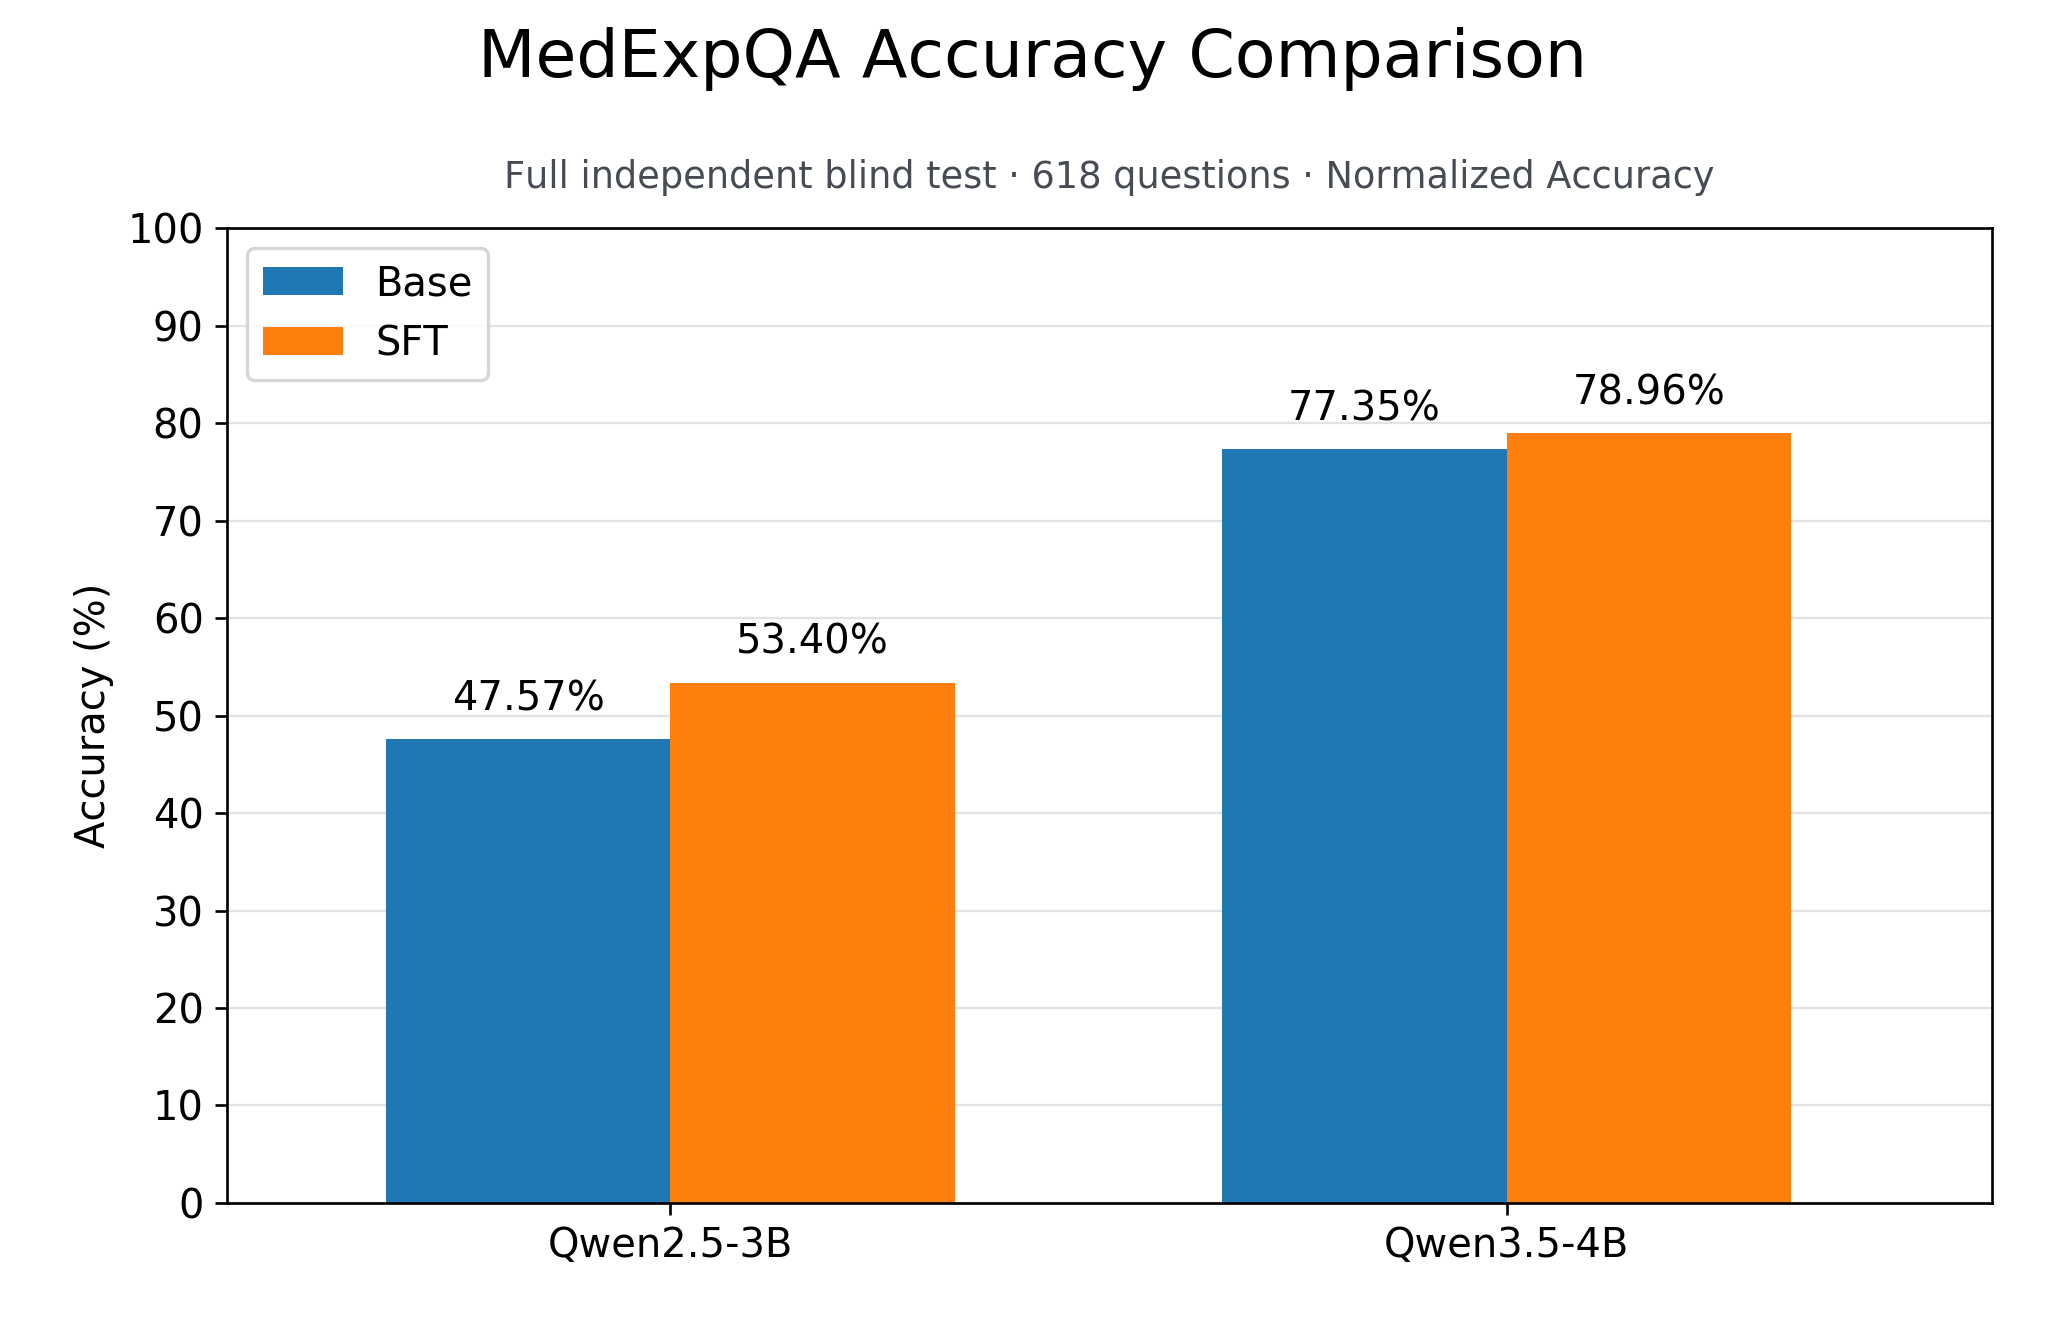
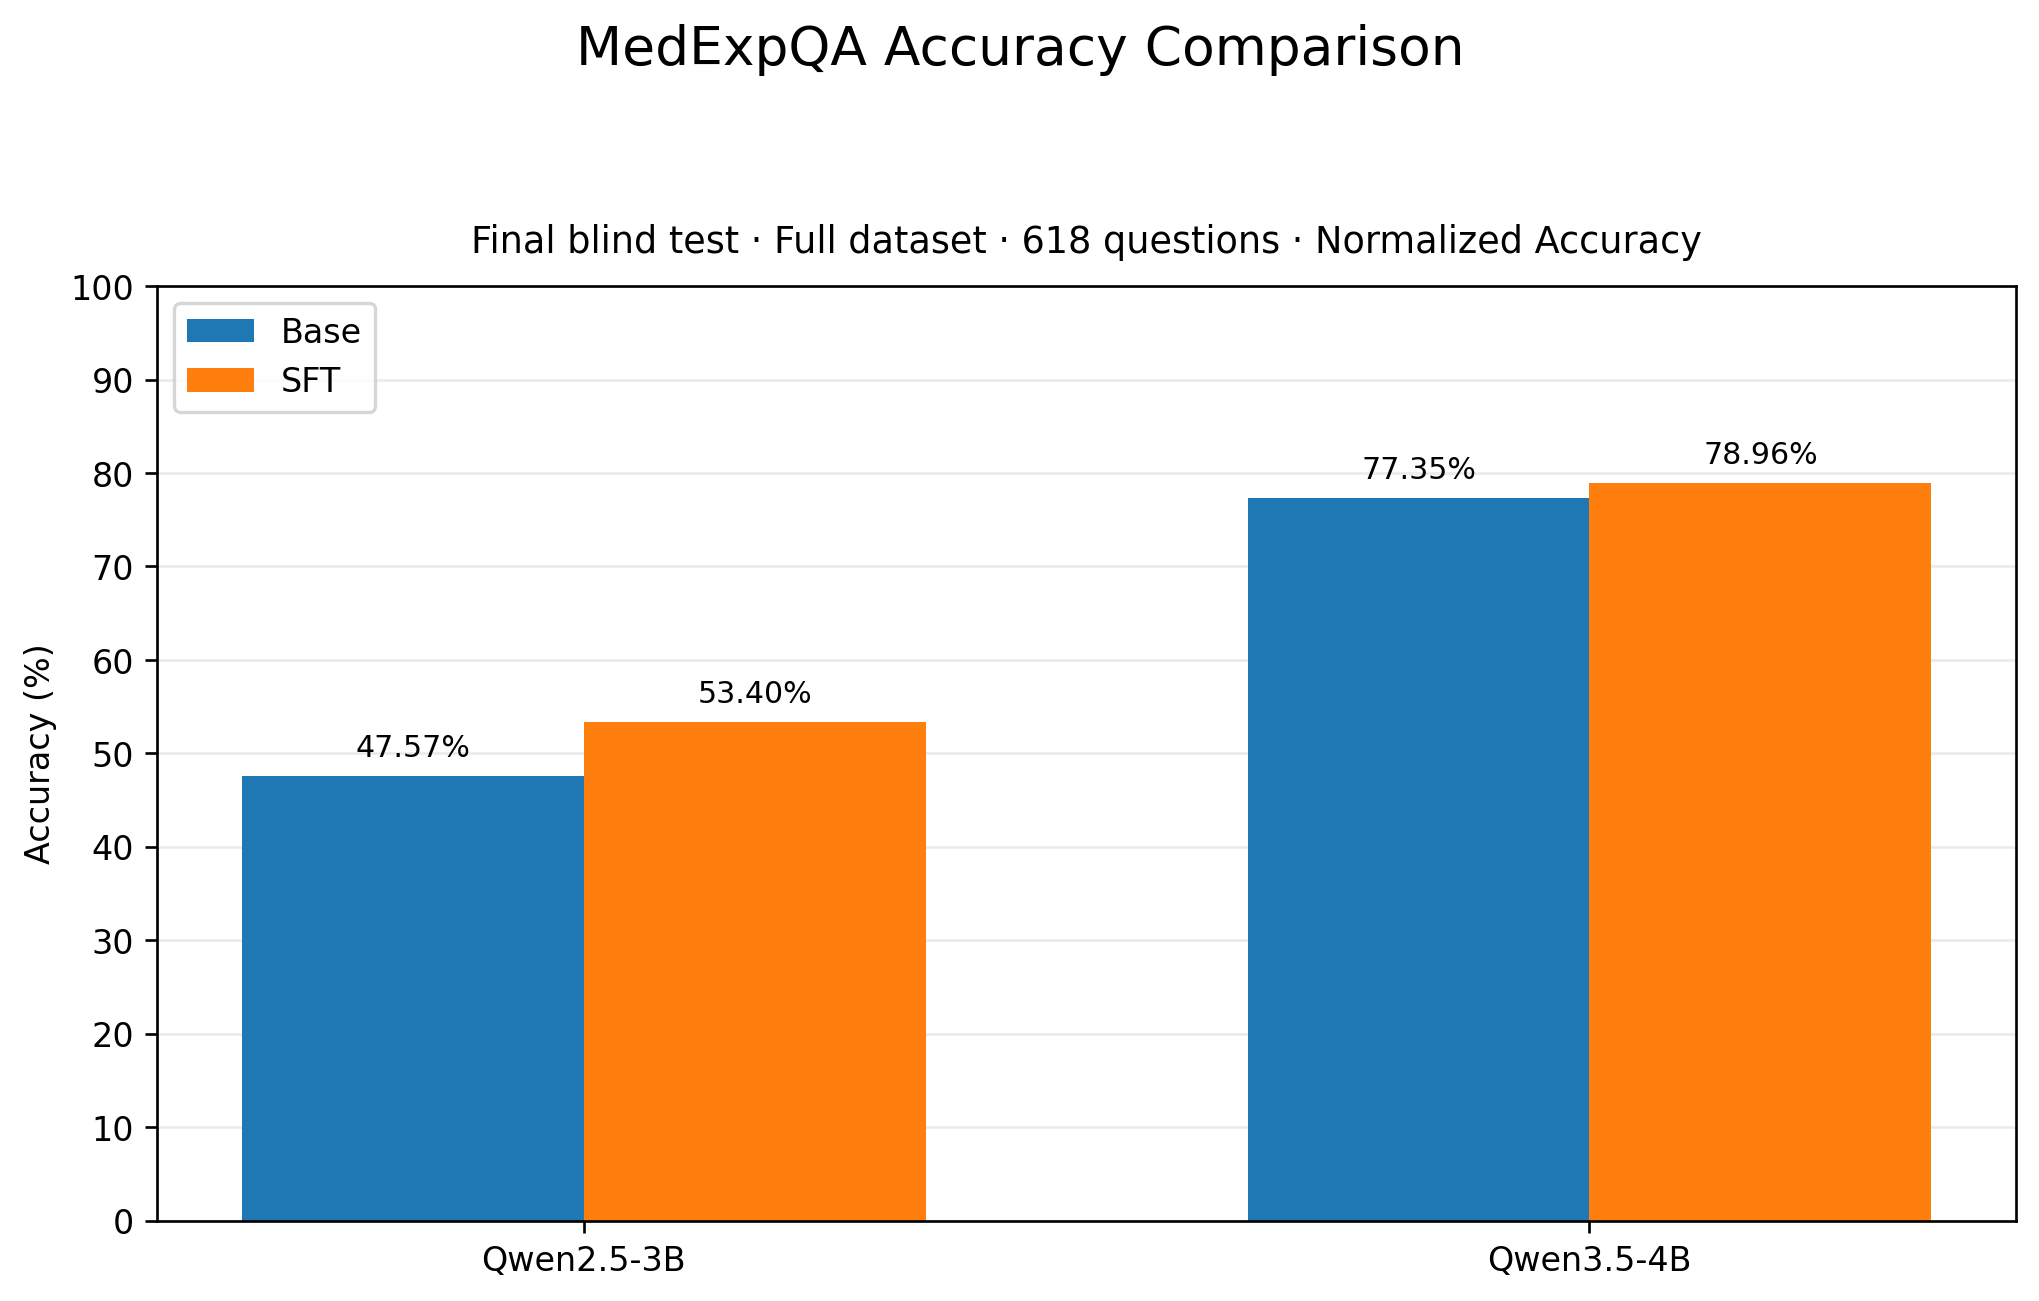
Clarify both final blind test datasets

diff --git a/src/medical_sft/evaluation/qwen25_instruct_baseline_matched_20261110.py b/src/medical_sft/evaluation/qwen25_instruct_baseline_matched_20261110.py
@@ -249,7 +249,7 @@ def main() -> None:
 
 **Prompt 与最终 SFT 训练对齐：**从锁定的官方 Validation 题目与选项中移除旧 Answer-only 尾部指令，替换为最终训练使用的 Answer + Explanation 指令；不追加单字母限制后缀。使用 Instruct tokenizer chat template、greedy generation、max_new_tokens={MAX_NEW_TOKENS}、use_cache=True，并同时保留严格解析与规范化解析结果。对应 SFT 评估必须复用同一 Prompt、生成参数和解析器。
 
-官方 Validation 已用于此前模型选择，因此本结果不是盲测。原 2026-11-05 追加后缀版本保留为历史探索结果，不覆盖、不替换。
+本报告属于使用 Answer + Explanation 的历史匹配 Prompt 对照。2026-11-05 的追加后缀评估同属历史探索。最终发布轮次的盲测协议与成绩见 `reports/results/final_accuracy_results_20261117.md`。
 """
     (OUT / "README.md").write_text(report, encoding="utf-8")
     write("status.json", {"status": "PASS", "phase": "complete", "completed": len(rows), "pid": os.getpid(), "model_released": True})

diff --git a/scripts/plot_accuracy_comparison.py b/scripts/plot_accuracy_comparison.py
@@ -21,13 +21,13 @@ MODEL_LABELS = {
 DATASETS = {
     "medmcqa": {
         "title": "MedMCQA Accuracy Comparison",
-        "subtitle": "Official Validation · 4,183 questions",
+        "subtitle": "Final blind test · Official Validation · 4,183 questions",
         "filename": "medmcqa_accuracy_comparison.png",
         "note": "",
     },
     "medexpqa": {
         "title": "MedExpQA Accuracy Comparison",
-        "subtitle": "Full independent blind test · 618 questions",
+        "subtitle": "Final blind test · Full dataset · 618 questions",
         "filename": "medexpqa_accuracy_comparison.png",
         "note": "",
     },

diff --git a/reports/results/final_accuracy_results_20261117.md b/reports/results/final_accuracy_results_20261117.md
@@ -1,17 +1,18 @@
 # 四模型准确率结果汇总（2026-11-17）
 
-本表汇总四个模型版本在 MedMCQA 和 MedExpQA 上的评估结果。README 和准确率对比图使用本表的 Normalized Accuracy。
+本表汇总四个模型版本在 MedMCQA 和 MedExpQA 上的最终盲测结果。README 和准确率对比图使用本表的 Normalized Accuracy。
 
 ## 1. 评估范围与统计口径
 
-- **MedMCQA**：官方 Validation，4,183 条。
-- **MedExpQA**：完整 618 条作为独立盲测集；上游 Train / Validation / Test 分别为 430 / 63 / 125 条，仅用于记录样本来源。618 条均未参与两个模型的 SFT 训练。
+- **MedMCQA 最终盲测集**为官方 Validation 的 4,183 条。
+- **MedExpQA 最终盲测集**为完整 618 条。上游 Train / Validation / Test 分别为 430 / 63 / 125 条，三个标签记录样本来源。
+- 最终发布轮次的模型和评估设置在盲测前确定。模型筛选使用从 MedMCQA 官方 Train 划出的 9,139 条内部验证样本，两套盲测数据均未用于该轮的模型筛选。
 - 主展示指标为 **Normalized Accuracy**，分母为全部样本数；无效答案按错误计入。
 - 结果表同时列出 Strict Accuracy、正确数和无效答案数。Qwen3.5-4B 两项 SFT 的 Normalized 正确数由表中准确率和样本总数换算。
 
 ## 2. 最终准确率
 
-### MedMCQA（4,183 条）
+### MedMCQA 官方 Validation（4,183 条最终盲测）
 
 | 模型                  | 类型   | Strict Accuracy | Normalized Accuracy | Strict 正确数 | Normalized 正确数 | 无效答案 |
 | ------------------- | ---- | --------------: | ------------------: | ---------: | -------------: | ---: |
@@ -20,7 +21,7 @@
 | Qwen3.5-4B          | Base |          62.13% |          **62.13%** |      2,599 |          2,599 |    1 |
 | Qwen3.5-4B          | SFT  |          64.02% |          **64.02%** |      2,678 |          2,678 |    0 |
 
-### MedExpQA（618 条独立盲测）
+### MedExpQA 全集（618 条最终盲测）
 
 | 模型                  | 类型   | Strict Accuracy | Normalized Accuracy | Normalized 正确数 | 无效答案 |
 | ------------------- | ---- | --------------: | ------------------: | -------------: | ---: |
@@ -53,7 +54,7 @@ Qwen2.5-3B Base 在 MedMCQA 上的 Normalized Accuracy 为 **47.98%**，即 4,18
 - 同一数据集的题目 Prompt 保持一致，各模型使用各自原生 Chat Template；
 - Normalized Accuracy 以全部样本为分母，无效答案计为错误。
 
-同一数据集的 Base / SFT 使用相同的题目 Prompt 和生成设置。MedMCQA 评估使用 Answer-only，SFT 训练使用 Answer + Explanation。MedMCQA 官方 Validation 曾用于早期模型筛选，MedExpQA 的 618 条用于独立盲测。
+同一盲测集的 Base / SFT 使用相同的题目 Prompt 和生成设置。MedMCQA 最终盲测使用 Answer-only，SFT 训练使用 Answer + Explanation。
 
 ## 6. 图表
 

diff --git a/data/README.md b/data/README.md
@@ -51,25 +51,27 @@ MedMCQA 清洗输入为 **173,683 条**，按官方 Train 的 **182,822 条**扣
 - 用途：内部验证、训练监控和模型选择。
 - 不参与梯度更新，也不属于最终测试集。
 
-## 四、两个独立测试集
+## 四、最终盲测集
 
-### 测试集一：MedMCQA 官方 Validation
+最终发布轮次在模型和评估设置确定后使用以下两套数据进行盲测。两套数据均未用于该轮模型筛选。
+
+### MedMCQA 官方 Validation
 
 - 数量：**4,183**。
 - 原始数据：`raw/medmcqa/validation.parquet`。
 - 评估副本：`evaluation/medmcqa_official_validation/validation.jsonl`。
-- 用途：最终独立测试，不是内部验证集。
+- 用途为最终盲测。
 
-### 测试集二：MedExpQA 全集
+### MedExpQA 全集
 
-MedExpQA 在本项目中只用于评估，不参与 SFT 训练。评估集共 **618** 条：
+MedExpQA 全集共 **618** 条，用于最终盲测。
 
 | 官方 split | 数量 | 组成 |
 |---|---:|---|
 | Train | 430 | 378 条长度合格候选 + 31 条超长隔离 + 21 条质量排除 |
 | Validation | 63 | 官方 Validation 保留记录 |
 | Test | 125 | 官方 Test 保留记录 |
-| **合计** | **618** | 全部纳入评估 |
+| **合计** | **618** | 全部纳入最终盲测 |
 
 评估时必须纳入 MedExpQA Train split 的全部 430 条，包括不满足训练长度或训练准入条件的记录；不能套用训练准入规则再次删除。四条跨 split 重复 Train 记录已按评估集构建规则隔离，Validation/Test 记录保持保留。
 
@@ -111,7 +113,7 @@ data/
 1. 最终训练模型只有 Qwen2.5-3B-Instruct 和 Qwen3.5-4B。
 2. 最终 SFT 训练只读取各自的 MedMCQA 模型专属训练文件。
 3. 内部验证集 9,139 条不参与梯度更新。
-4. MedMCQA 官方 Validation 4,183 条和 MedExpQA 全集 618 条是两个独立测试集。
+4. MedMCQA 官方 Validation 4,183 条和 MedExpQA 全集 618 条均用于最终盲测。
 5. MedExpQA 的任何 split 均不得加入最终 SFT 训练数据。
 6. 评估集不得套用训练集 A/B/C/D 训练准入规则再次删题。
 7. 不重新生成或重新划分现有 Train/内部验证文件；代码整理只核对路径、数量和哈希，不改动数据内容。

diff --git a/PROJECT_FILE_INDEX.md b/PROJECT_FILE_INDEX.md
@@ -32,11 +32,11 @@ reports/
 | `src/medical_sft/training/current_medmcqa_training.py` | 两模型共享训练运行时 |
 | `src/medical_sft/training/train_qwen25_3b_medmcqa.py`、`src/medical_sft/training/train_qwen35_4b_medmcqa.py` | 两个最终训练入口 |
 | `src/medical_sft/evaluation/medmcqa_evaluation.py`、`src/medical_sft/evaluation/medexpqa_evaluation.py` | 两个测试集的读取、评估和评分辅助 |
-| `src/medical_sft/evaluation/qwen25_instruct_baseline_matched_20261110.py` | 尚未执行推理的 Base 匹配 Prompt 准备脚本；依赖本地模型和历史输出，独立克隆后不能直接运行 |
+| `src/medical_sft/evaluation/qwen25_instruct_baseline_matched_20261110.py` | 历史探索的 Base 匹配 Prompt 对照脚本，使用 Answer + Explanation，依赖本地模型和历史输出，尚未执行推理 |
 | `scripts/plot_accuracy_comparison.py` | 从 `reports/results/final_accuracy_results_20261117.csv` 生成 MedMCQA 与 MedExpQA 准确率对比图 |
 | `scripts/plot_training_loss.py` | 读取正式训练日志并绘制 Loss 图 |
 | `scripts/run_tests.py` | 分组运行 106 项公开测试、11 项冻结数据集成测试或完整 117 项测试 |
 
-最终训练数据来自 MedMCQA 官方 Train；内部验证 9,139 条，模型专属训练文件各 137,928 条。MedMCQA 官方 Validation 4,183 条和 MedExpQA 618 条仅作独立测试。不得重新划分、重建覆盖已有数据，也不得擅自启动 GPU 训练或推理。
+最终训练数据来自 MedMCQA 官方 Train。内部验证 9,139 条，模型专属训练文件各 137,928 条。MedMCQA 官方 Validation 4,183 条和 MedExpQA 全集 618 条均用于最终盲测，两个数据集均未参与该轮模型筛选。不得重新划分、重建覆盖已有数据，也不得擅自启动 GPU 训练或推理。
 
 Qwen2.5-3B-Instruct 的正式配置使用本地快照 `models/Qwen2.5-3B-Instruct-aa8e72537993/`。项目外的同 revision 副本 `../model_assets/Qwen2.5-3B-Instruct/aa8e72537993ba99e69dfaafa59ed015b17504d1/` 仅含配置和 Tokenizer 文件。数据清单 `data_release_manifest.json` 位于项目根目录。

diff --git a/data/evaluation/medexpqa_full/README.md b/data/evaluation/medexpqa_full/README.md
@@ -1,6 +1,6 @@
-# MedExpQA Full 独立评估集
+# MedExpQA 全集最终盲测
 
-本目录用于最终模型评估，不用于 SFT 训练。
+本目录的 618 道题仅用于最终发布轮次的盲测。
 
 ## Split 组成
 
